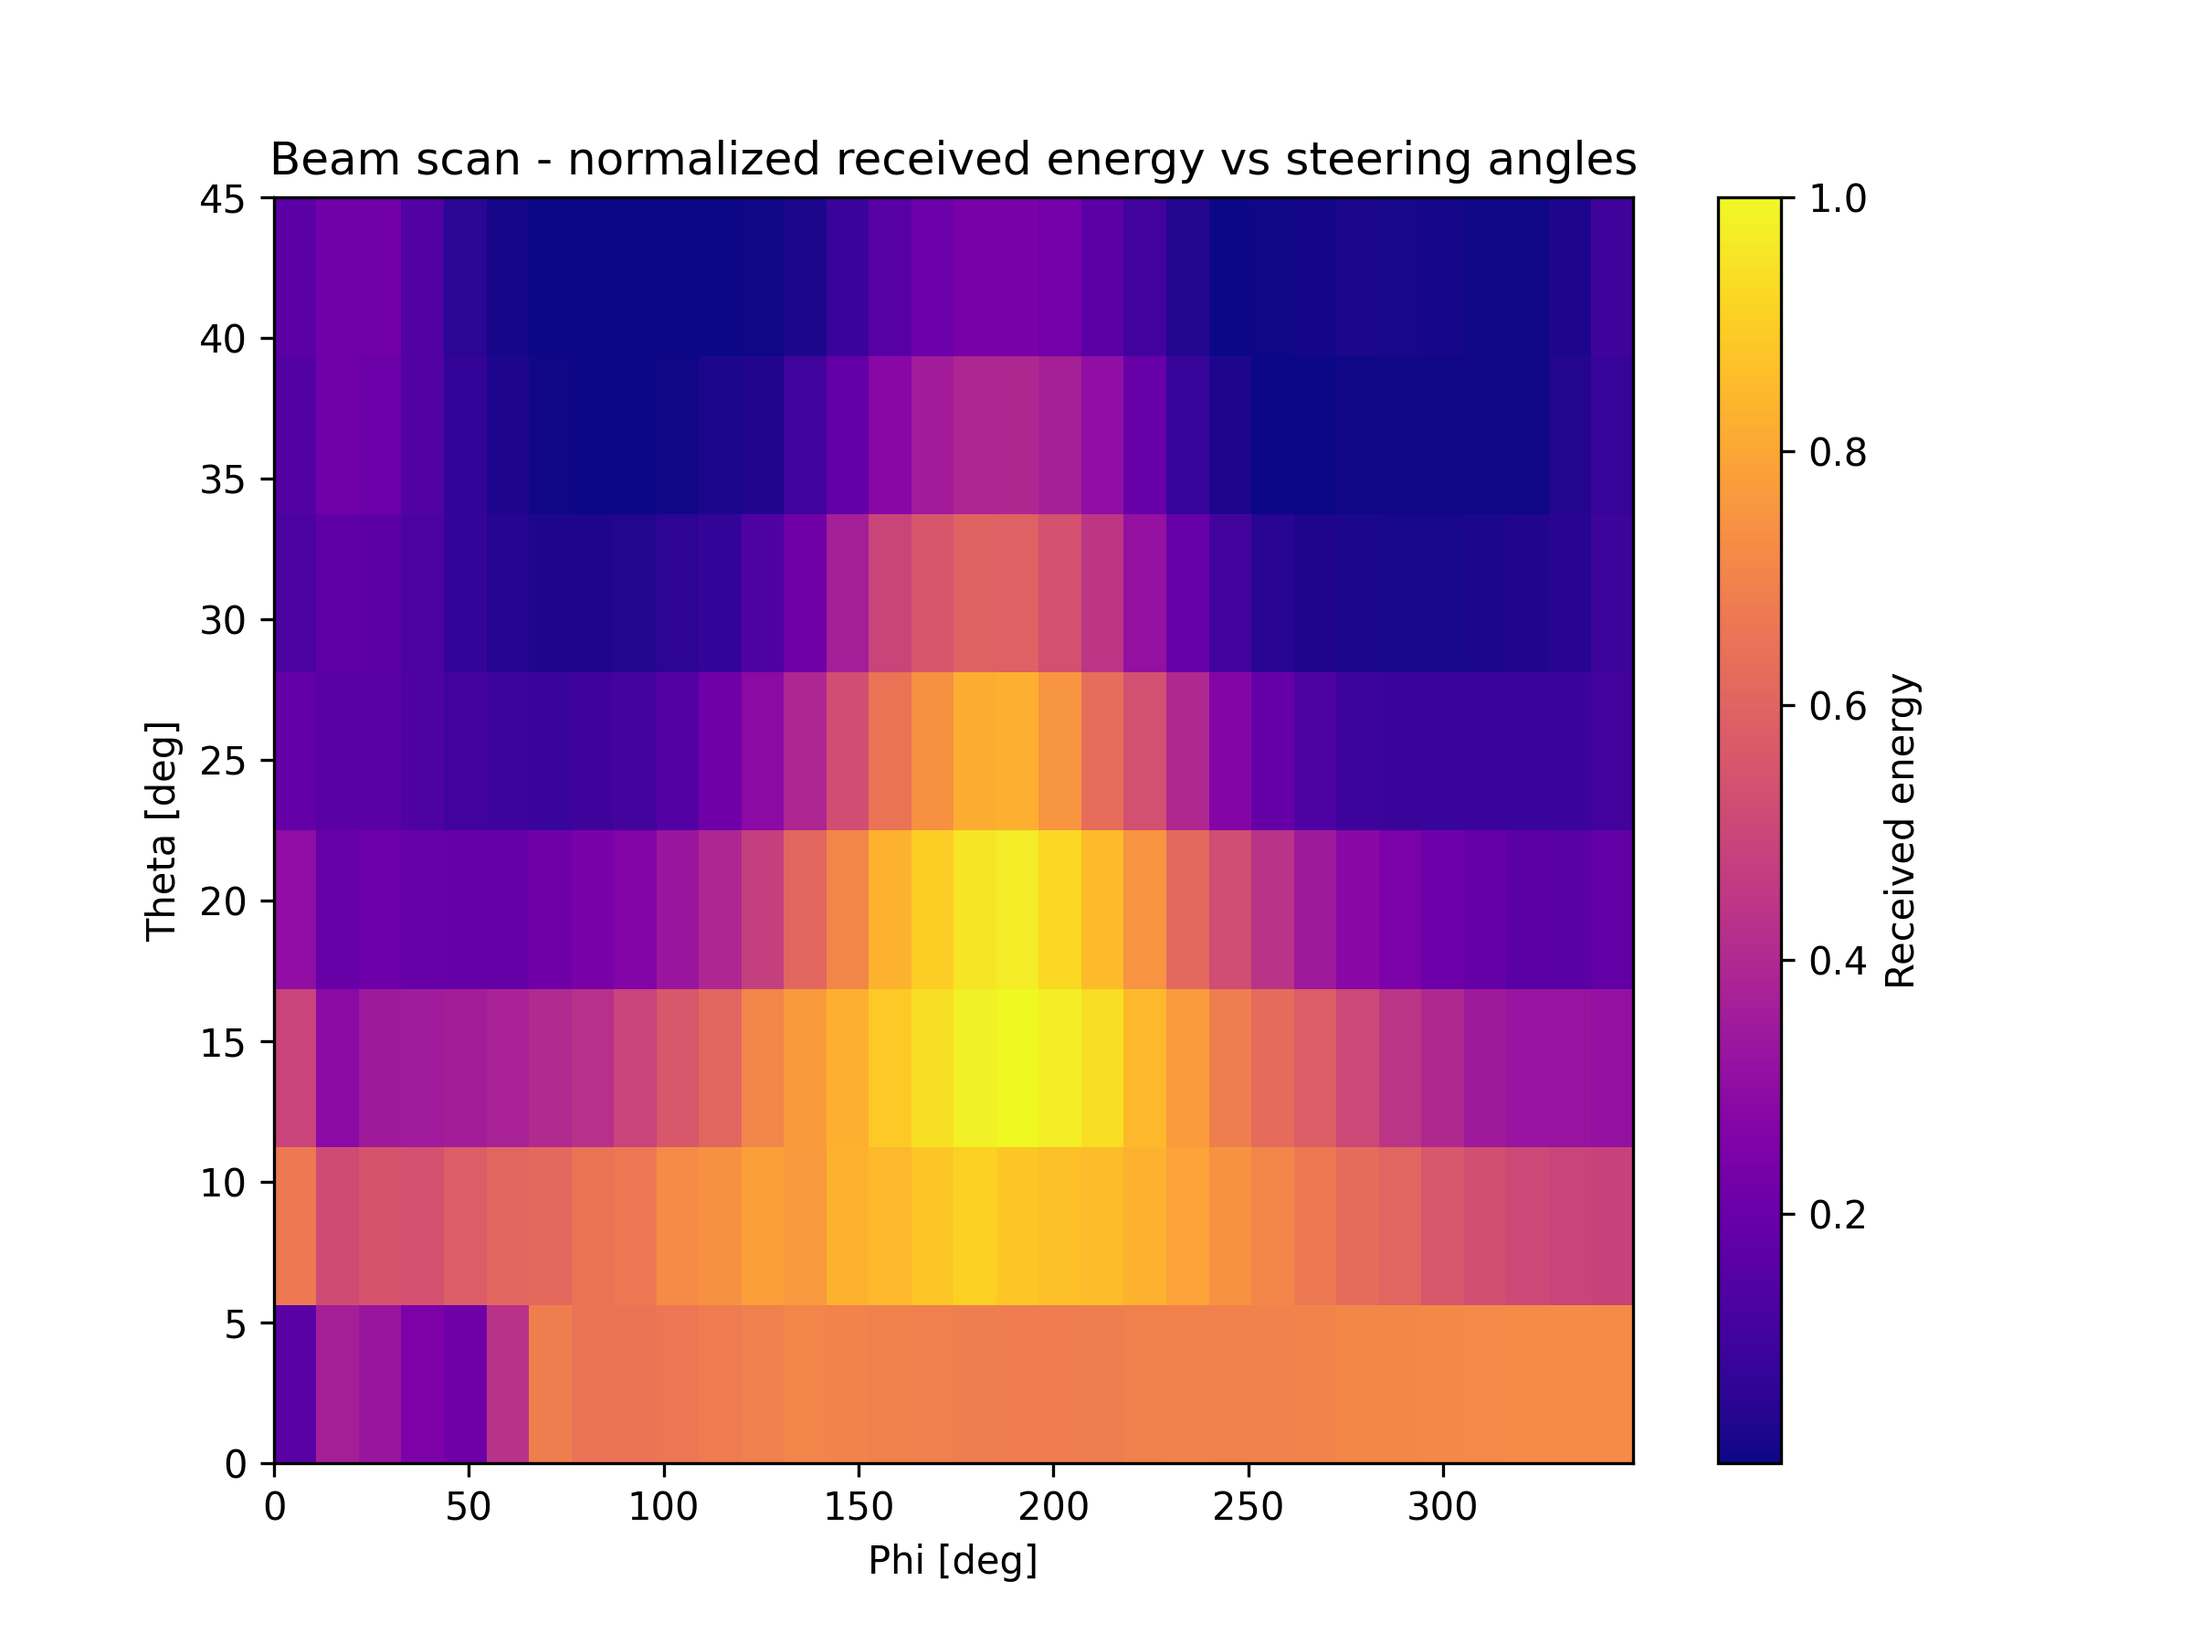
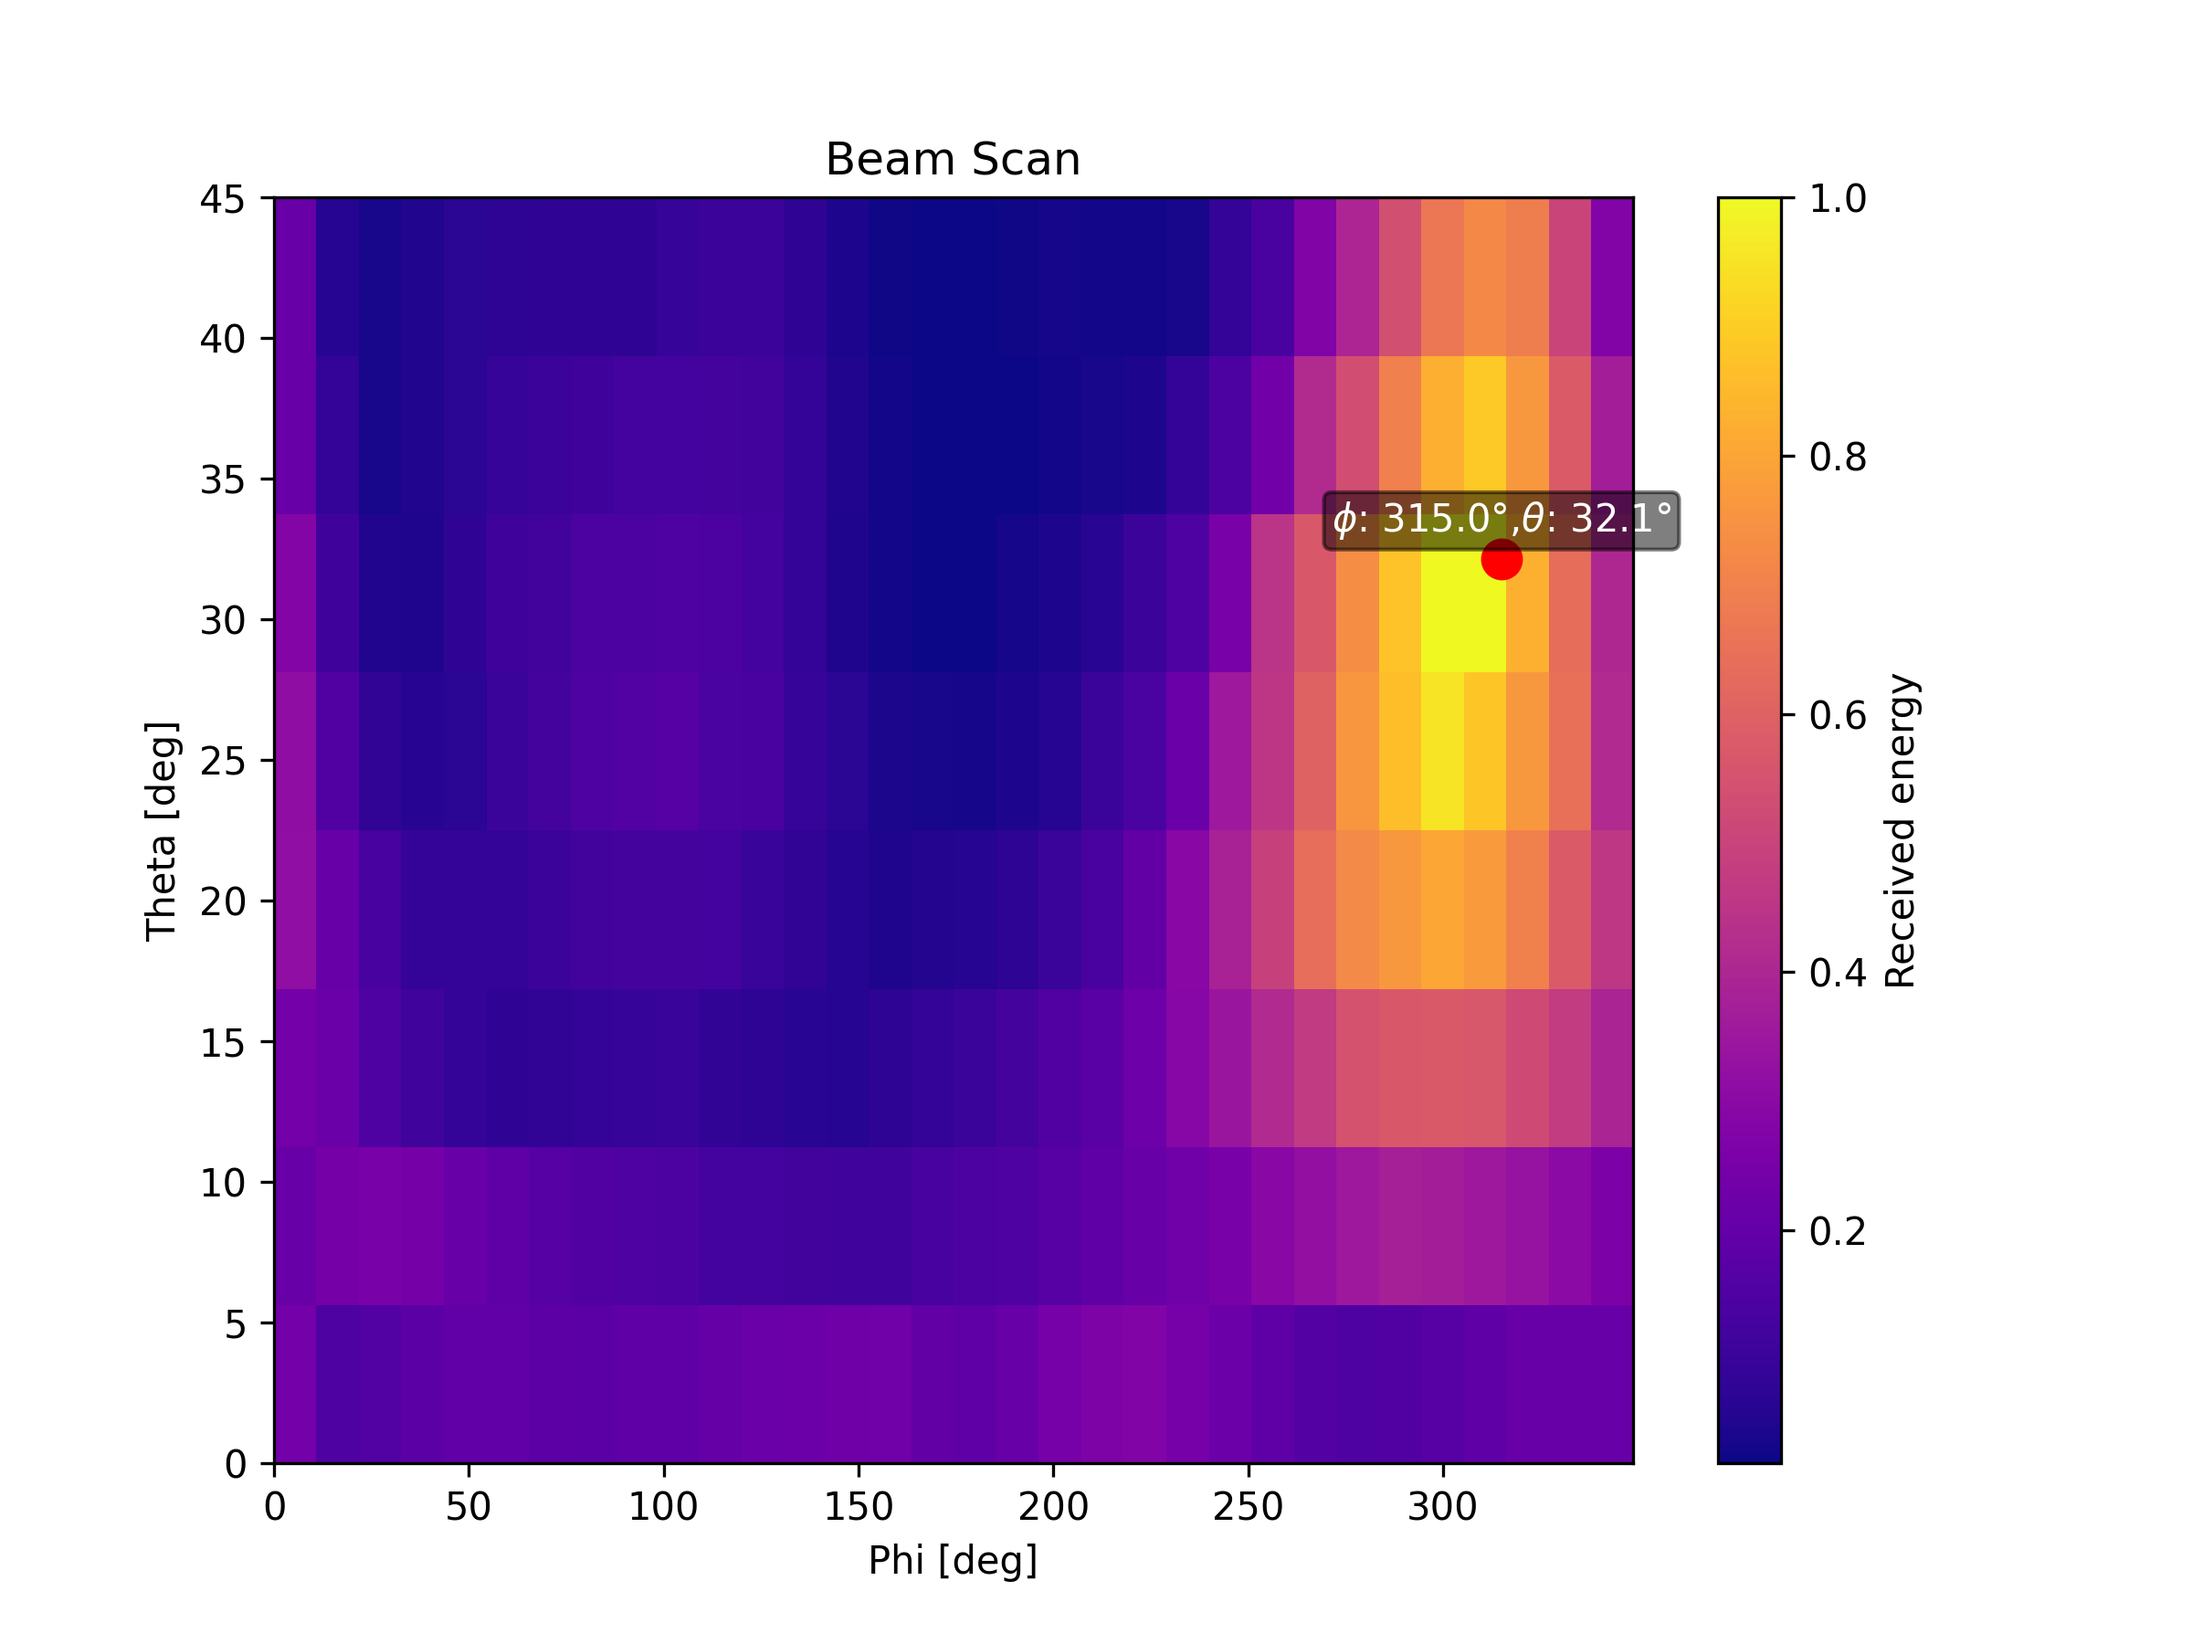
added annotation to rx beam

diff --git a/GUI/main.py b/GUI/main.py
@@ -29,6 +29,7 @@ from nicegui import ui
 import numpy as np 
 from config import BAUDRATE, DX, DY, THETA_RANGE, PHI_RANGE, FREQ  
 import matplotlib.pyplot as plt
+from matplotlib.patches import Circle 
 import asyncio
 from AF_Calc import runAF_Calc
 from READ_S2P import get_phase_at_freq
@@ -633,22 +634,46 @@ def beam_page():
 
                 # Reshape and plot
                 energies_2D = energies.reshape(len(THETA_RANGE), len(PHI_RANGE))
-                energies_2D /= np.max(energies_2D)#normalize
-                plt.figure(figsize=(8, 6))
-                plt.imshow(
+                energies_2D /= np.max(energies_2D) #normalize
+                # Find peak location
+                peak_idx = np.unravel_index(np.argmax(energies_2D), energies_2D.shape)
+                theta_peak = THETA_RANGE[peak_idx[0]]
+                phi_peak = PHI_RANGE[peak_idx[1]]
+
+                r=3#circle radius
+
+                fig, ax = plt.subplots(figsize=(8, 6))
+
+                im = ax.imshow(
                     energies_2D,
                     extent=[PHI_RANGE[0], PHI_RANGE[-1], THETA_RANGE[0], THETA_RANGE[-1]],
-                    origin='lower', 
-                    aspect='auto', 
+                    origin='lower',
+                    aspect='auto',
                     cmap='plasma'
                 )
-                plt.colorbar(label='Received energy')
-                plt.xlabel('Phi [deg]')
-                plt.ylabel('Theta [deg]')
-                plt.title('Beam scan - normalized received energy vs steering angles')
+
+                #mark the point                
+                ax.plot(phi_peak, theta_peak, 'ro', markersize=10)  # Mark peak
+                # Annotate with coordinates
+                ax.annotate(
+                    fr"$\phi$: {phi_peak:.1f}°,$\theta$: {theta_peak:.1f}°",
+                    xy=(phi_peak, theta_peak),                 # point to annotate
+                    xytext=(0, 10),                           # offset in pixels
+                    ha='center',
+                    va='center',
+                    textcoords='offset points',
+                    color='white',
+                    fontsize=10,
+                    bbox=dict(boxstyle="round,pad=0.2", fc="black", alpha=0.5),
+                    zorder=100
+                )
+                plt.colorbar(im, ax=ax, label='Received energy')
+
+                ax.set_xlabel('Phi [deg]')
+                ax.set_ylabel('Theta [deg]')
+                ax.set_title('Beam Scan')
                 plt.savefig('media/rx_heat.png', dpi=300)
                 plt.close()
-
                 # Update UI with plot
                 image_container.clear()
                 with image_container:
